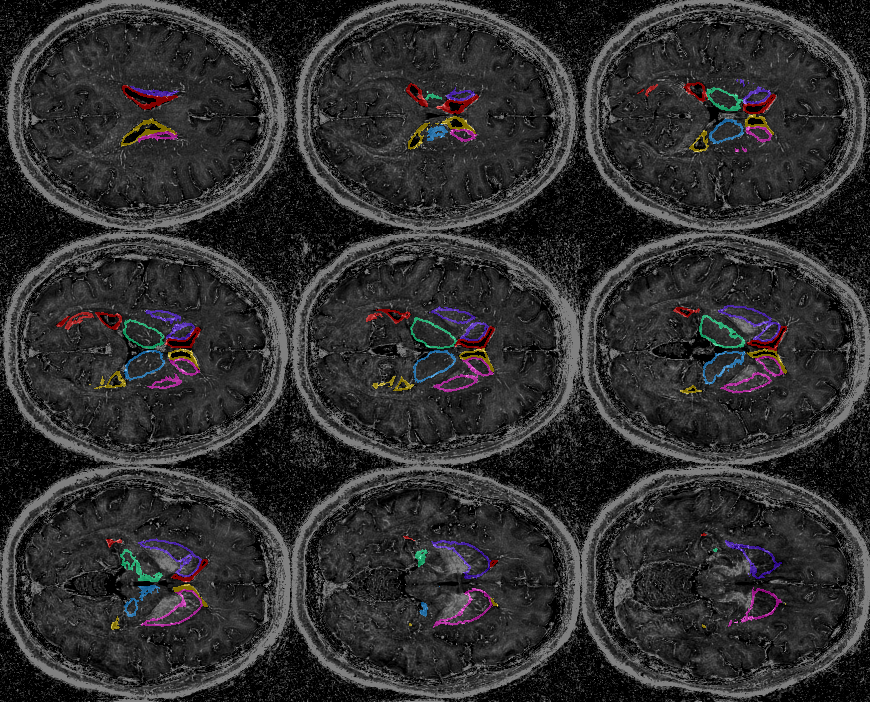
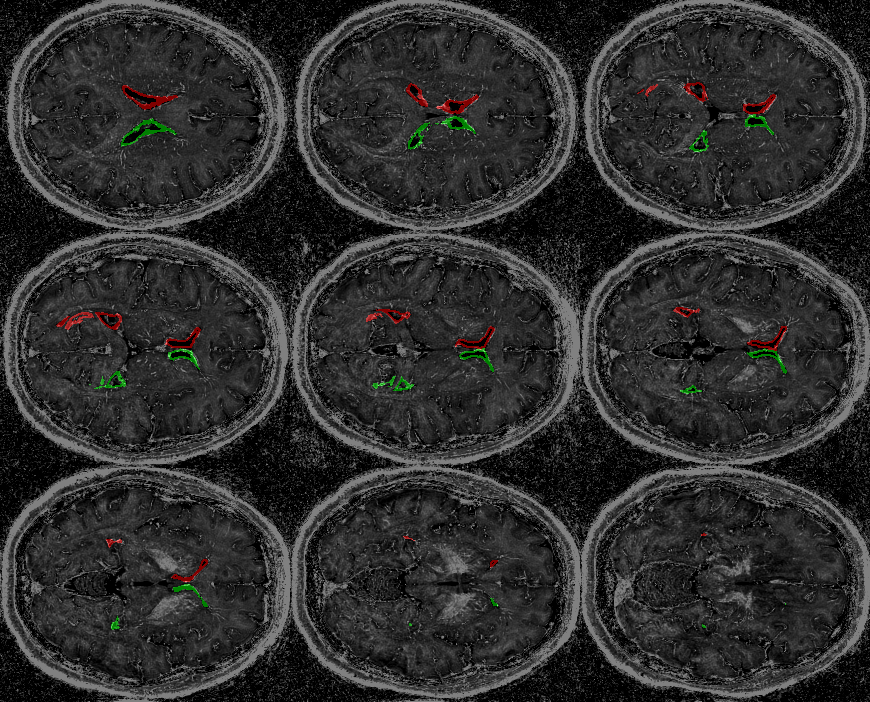
shaprness debugging of NaN values

diff --git a/sharpness/code/getdataSharpnessFatNav.m b/sharpness/code/getdataSharpnessFatNav.m
@@ -72,15 +72,13 @@ for iROI = 1:length(FileID.uROIs)
         else
           cd(lbldir)
           mapname = strjoin({ID, ROI, HEM, char('lvlreg-gt_def-img.nii')},'_');
+%           mapname = strjoin({ID, ROI, HEM, char('lvlreg-corr_def-img.nii')},'_');
           map_corr.(nm) = load_untouch_nii(mapname);
           map_corr.(nm).img = permute(map_corr.(nm).img, [2 3 1]);
-          map_corr.(nm).img = map_corr.(nm).img(:, :, :);
-          disp('map corr size')
-          disp(size(map_corr.(nm).img))
           mapname = strjoin({ID, ROI, HEM, char('lvlreg-gt_def-img.nii')},'_');
+%           mapname = strjoin({ID, ROI, HEM, char('lvlreg-uncorr_def-img.nii')},'_');
           map_uncorr.(nm) = load_untouch_nii(mapname);
-%           map_uncorr.(nm).img = permute(map_uncorr.(nm).img, [3 1 2]);
-%           map_uncorr.(nm).img = map_uncorr.(nm).img(:, end:-1:1, end:-1:1);
+          map_uncorr.(nm).img = permute(map_uncorr.(nm).img, [2 3 1]);
         end
         % Alternative way to store MPos data, now with same indexing as
         % other data

diff --git a/sharpness/mainSharpnessFatNav.m b/sharpness/mainSharpnessFatNav.m
@@ -41,6 +41,7 @@ FileID.type={'r2star'};
 
 % define ROIs to process
 % FileID.uROIs = {'vent', 'tha', 'str','gwb'};
+% FileID.uROIs = {'vent', 'tha', 'str'};
 FileID.uROIs = {'vent'};
 
 
@@ -91,13 +92,13 @@ for ii=subj_ii
   mot_mean{ii} = getmotionFatNav(map_corrall.(fields{ii}).img,brd_crds{ii},MPos.(fields{ii}),voxRes);
 end
 
-better_signed{3} = [];
-worse_signed{3} = [];
-brd_crds{3} = [];
-brd_ind{3} = [];
-AR{3} = [];
-numcl(3) = 0;
-mot_mean{3} = [];
+% better_signed{3} = [];
+% worse_signed{3} = [];
+% brd_crds{3} = [];
+% brd_ind{3} = [];
+% AR{3} = [];
+% numcl(3) = 0;
+% mot_mean{3} = [];
 
 
 

diff --git a/sharpness/code/plotROIsFatNav.m b/sharpness/code/plotROIsFatNav.m
@@ -39,7 +39,7 @@ for iSubj=1:nsubj
 
    %ims=im2mat(arr(rgb(tmp(50:10:200,:,:,:)))); 
    %ima=im2mat(arr(rgb(tmp(:,:,:,:)))); 
-   im=im2mat(arr(rgb(tmp(:,:,:,:)))); 
+   im=im2mat(arr(rgb(tmp(:,:,10:5:50,:)))); 
 disp(size(tmp))
 %    im=im2mat(arr(tmp(:,:,50:10:200,:))); 
   %^savenames=fullfile(savedir,[FileID.uIDs{iSubj} '_ROIs_s.png']);
